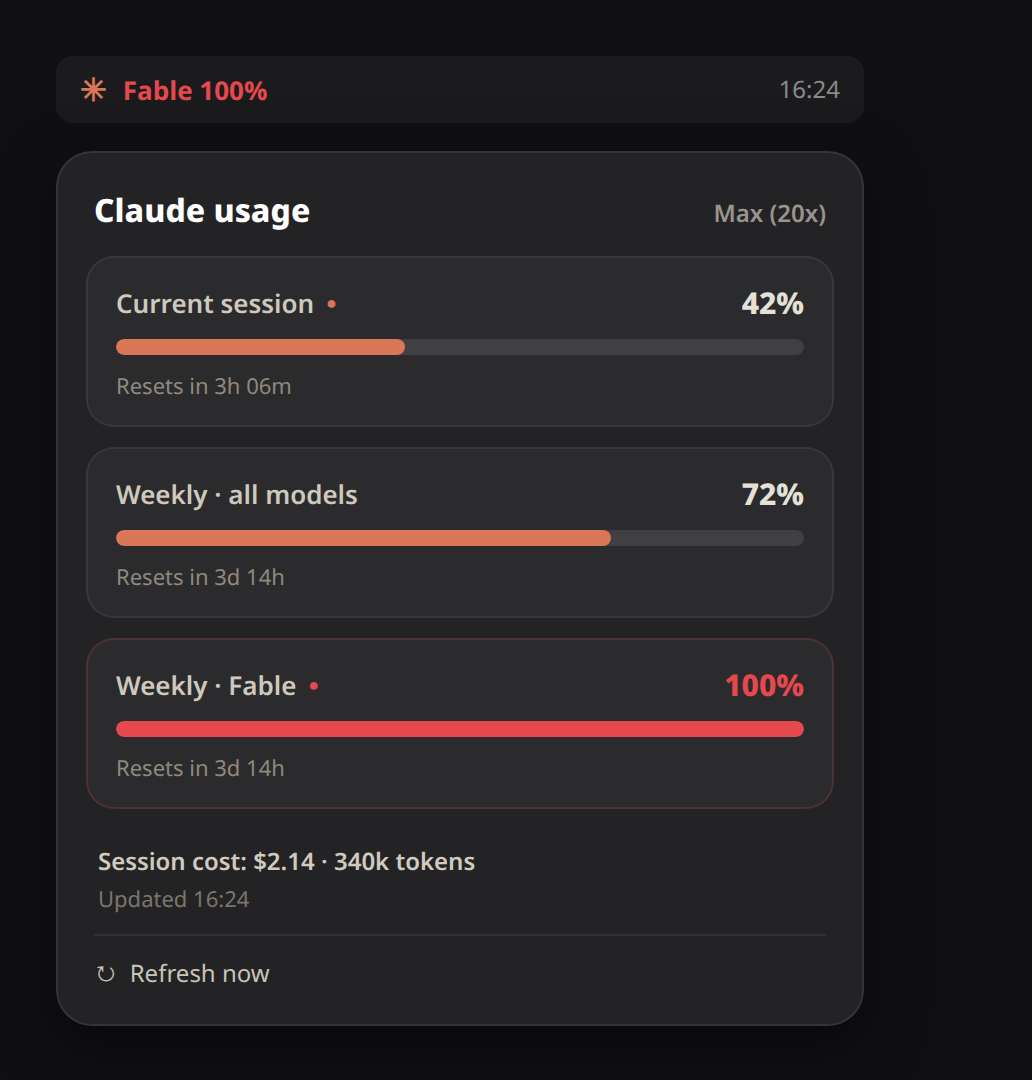
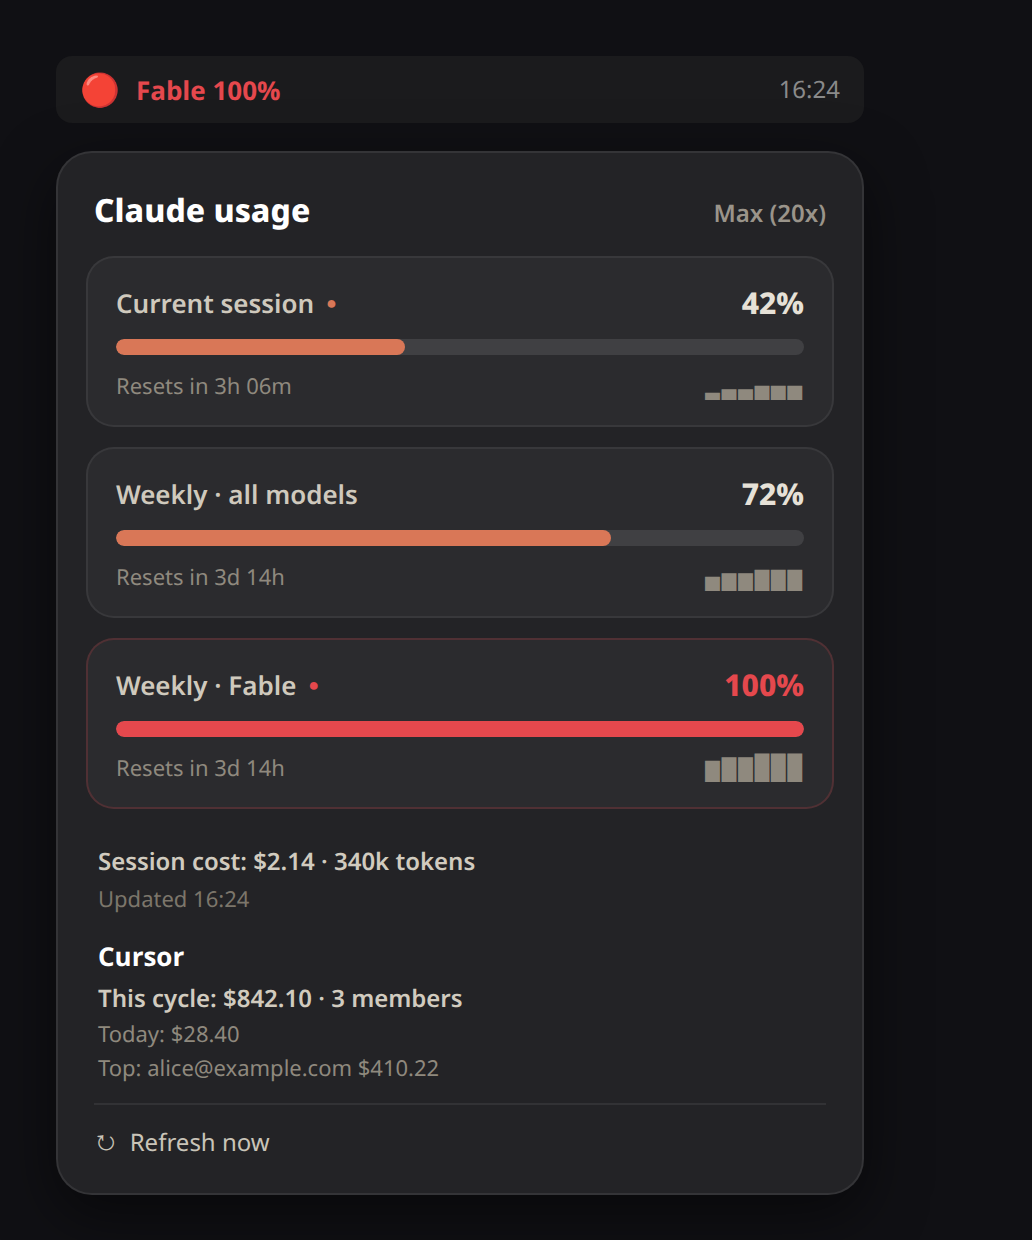
docs: SOTA README rewrite + settings screenshot
- Centered hero, badges, TOC, feature grid, dual screenshots (dropdown +
  settings), how-it-works, roadmap, repo tree.
- Refresh dropdown mockup to show sparklines and the Cursor section.
- Add docs/settings.png (libadwaita preferences).

diff --git a/README.md b/README.md
@@ -1,39 +1,66 @@
+<div align="center">
+
 # Claude Usage Panel
 
-**See your Claude Code plan usage at a glance — in the GNOME top bar (Linux) or the macOS menu bar.**
+**See your Claude Code plan usage at a glance — in the GNOME top bar or the macOS menu bar.**
 
-Session, weekly, and **per-model** limits (like **Fable** and **Opus**) — the same numbers as `/usage`, always visible, auto-refreshing.
+Session, weekly, and **per-model** limits (Fable, Opus…) — the same numbers as `/usage`, always visible, auto-refreshing. Plus an optional **Cursor** team-spend section.
 
 ![GNOME Shell 45–50](https://img.shields.io/badge/GNOME%20Shell-45--50-4A86CF?logo=gnome&logoColor=white)
 ![macOS 13+](https://img.shields.io/badge/macOS-13%2B-000000?logo=apple&logoColor=white)
 ![Swift 6.1](https://img.shields.io/badge/Swift-6.1-F05138?logo=swift&logoColor=white)
 ![License: MIT](https://img.shields.io/badge/license-MIT-3DA639)
-![Read-only](https://img.shields.io/badge/credentials-read--only-2ea44f)
 ![pre-commit](https://img.shields.io/badge/pre--commit-enabled-FAB040?logo=pre-commit&logoColor=white)
+![Read-only](https://img.shields.io/badge/credentials-read--only-2ea44f)
 
-<img src="docs/screenshot.png" alt="Claude Usage Panel dropdown showing session, weekly, and per-model Fable limits" width="420">
+<img src="docs/screenshot.png" alt="Claude Usage Panel dropdown: session, weekly, and per-model Fable limits with sparklines and an optional Cursor section" width="380">
 
-> **Linux + macOS.** GNOME Shell extension in the repo root; a native SwiftUI menu-bar app in [`macos/`](macos/) — same data layer, same designed dropdown.
+</div>
+
+---
+
+## Contents
+
+- [Why this one](#why-this-one)
+- [Features](#features)
+- [Screenshots](#screenshots)
+- [Install — GNOME (Linux)](#install--gnome-linux)
+- [Install — macOS](#install--macos)
+- [Settings](#settings)
+- [How it works](#how-it-works)
+- [Cursor (optional)](#cursor-optional)
+- [Privacy](#privacy)
+- [Development](#development)
+- [Roadmap](#roadmap)
+- [License](#license)
 
 ## Why this one
 
 Most Claude usage indicators read the endpoint's legacy `five_hour` / `seven_day`
 fields and show only the aggregate session + weekly pair. This one reads the
 modern **`limits[]` array**, so it shows **every** limit the Claude app shows —
-including **per-model weekly limits** (Fable, Opus, …) that the others miss.
+including **per-model weekly limits** (Fable, Opus…) that the others miss — on
+**both Linux and macOS**, with native UI on each (no Electron).
 
 ## Features
 
-- **All plan limits** in one designed dropdown: current session, weekly (all models), and per-model weekly limits (Fable, Opus, …).
-- **Severity colors** — normal / warning / **critical**, straight from the API's `severity` field, reflected in the top-bar glyph too.
-- **Limit-crossing alerts** — a desktop notification when any limit first hits 90% or 100%.
-- **Usage sparkline** — a tiny history graph per limit so you see the trend.
-- **Reset timers** — `Resets in 3h 06m`, `Resets in 4d 2h`.
-- **Compact top-bar readout** — the worst limit (or the current session), e.g. `Fable 100%`.
-- **Optional session cost** — computed locally via [`ccusage`](https://github.com/ryoppippi/ccusage) (the official API exposes no dollar cost on subscription plans).
-- **Configurable refresh** — defaults to every 10 minutes.
-- **Read-only & private** — uses your existing `~/.claude/.credentials.json` token, never writes it, and talks only to `api.anthropic.com`.
-- **Quit** from the menu — unloads it and keeps it off until you re-enable.
+| | |
+|---|---|
+| 📊 **All plan limits** | Session, weekly (all models), and per-model (Fable, Opus…) — one card each |
+| 🎨 **Severity colors** | normal / warning / **critical**, straight from the API — reflected in the top-bar glyph too |
+| 🔔 **Limit-crossing alerts** | Desktop notification when any limit first hits 90% or 100% |
+| 📈 **Usage sparkline** | A tiny history graph per limit so you see the trend |
+| ⏳ **Reset timers** | `Resets in 3h 06m`, `Resets in 4d 2h` |
+| 💲 **Optional session cost** | Computed locally via [`ccusage`](https://github.com/ryoppippi/ccusage) |
+| 🟣 **Optional Cursor spend** | Team cycle spend / today / top spender via the Cursor Admin API |
+| 🔒 **Read-only & private** | Uses your existing local token, never writes it, talks only to `api.anthropic.com` |
+| 🖥 **Cross-platform** | Native GNOME Shell extension **and** native SwiftUI menu-bar app |
+
+## Screenshots
+
+| Dropdown | Settings |
+|---|---|
+| <img src="docs/screenshot.png" alt="Dropdown" width="360"> | <img src="docs/settings.png" alt="Settings" width="360"> |
 
 ## Install — GNOME (Linux)
 
@@ -45,15 +72,6 @@ cd claude-usage-panel
 ./install.sh
 ```
 
-Or from a packaged release:
-
-```bash
-# download the .shell-extension.zip from the Releases page, then:
-gnome-extensions install --force claude-usage-panel@fschmutz.github.io.shell-extension.zip
-```
-
-(An extensions.gnome.org listing is planned — see [PUBLISHING.md](PUBLISHING.md).)
-
 `install.sh` copies the extension, compiles its schema, clears the global
 `disable-user-extensions` switch if set, and enables it to auto-start on every
 login. Then **log out and back in** (Wayland loads new extensions only at login)
@@ -63,6 +81,15 @@ and confirm:
 gnome-extensions info claude-usage-panel@fschmutz.github.io   # State: ACTIVE
 ```
 
+Or from a packaged release:
+
+```bash
+# download the .shell-extension.zip from the Releases page, then:
+gnome-extensions install --force claude-usage-panel@fschmutz.github.io.shell-extension.zip
+```
+
+> An extensions.gnome.org listing is planned — see [PUBLISHING.md](PUBLISHING.md).
+
 ## Install — macOS
 
 ```bash
@@ -70,19 +97,35 @@ cd macos
 swift run          # icon appears in the menu bar
 ```
 
-Full details, release build, and login-item setup in [macos/README.md](macos/README.md).
+`macos/build-app.sh` produces a distributable `ClaudeUsagePanel.app` (menu-bar
+agent, no Dock icon). Full details, release build, notarization, and a Homebrew
+cask template are in [macos/README.md](macos/README.md) and [PUBLISHING.md](PUBLISHING.md).
 
-## Requirements
+### Requirements
 
 - **Linux:** GNOME Shell 45–50
 - **macOS:** 13 Ventura or later (Xcode 15+ / Swift toolchain)
-- An active Claude Code login (`~/.claude/.credentials.json` present)
+- An active Claude Code login (see [How it works](#how-it-works) for where the token lives)
 - Optional, for cost: Node.js / `npx`, or a global `ccusage`
+
+## Settings
+
+<img src="docs/settings.png" alt="Preferences window" width="420">
+
+- **Refresh interval** — minutes between polls (default 10).
+- **Top bar shows** — worst limit or current session.
+- **Limit-crossing alerts** — notify at 90% / 100%.
+- **Show session cost** — enable local `ccusage` cost.
+- **Cursor (optional)** — toggle + Admin API key.
+
+GNOME: open via the dropdown's **Settings**, or
+`gnome-extensions prefs claude-usage-panel@fschmutz.github.io`.
+macOS: toggles live directly in the dropdown.
 
 ## How it works
 
-Reads the OAuth access token Claude Code already stores in
-`~/.claude/.credentials.json` and calls the official usage endpoint:
+The panel reads the OAuth access token that Claude Code already stores locally
+and calls the official usage endpoint:
 
 ```text
 GET https://api.anthropic.com/api/oauth/usage
@@ -92,29 +135,33 @@ GET https://api.anthropic.com/api/oauth/usage
 
 The response contains a `limits[]` array — one entry per active limit, each with
 a `percent`, a `severity`, a `resets_at`, and an optional model `scope`. The
-panel renders one card per limit. If the token expires, it prompts you to run
-any Claude Code command (which refreshes it) — it never touches the file.
+panel renders one card per limit.
 
-## Settings
+**Where the token lives:** `~/.claude/.credentials.json` on Linux; the **login
+Keychain** on macOS (the app reads it via `security find-generic-password`). If
+the token expires, the panel prompts you to run any Claude Code command (which
+refreshes it) — it never writes the token itself.
 
-- **Refresh interval** — minutes between polls (default 10).
-- **Top bar shows** — worst limit or current session.
-- **Show session cost** — enable local `ccusage` cost computation.
+## Cursor (optional)
 
-GNOME: open via the dropdown's **Settings**, or
-`gnome-extensions prefs claude-usage-panel@fschmutz.github.io`.
-macOS: toggles live directly in the dropdown.
+Enable **Show Cursor usage** and paste a Cursor **Admin API key** (create one at
+cursor.com → your team → Settings → Admin API). The panel calls
+`api.cursor.com` (`/teams/spend`, `/teams/filtered-usage-events`) and shows the
+billing-cycle spend, today's spend, and the top spender. Cursor is usage-based,
+so it shows spend rather than a percentage gauge. Off by default; the key is
+stored locally in dconf.
 
 ## Privacy
 
 Read-only with respect to your credentials. One outbound request per refresh, to
 Anthropic's official API, with your own token. No telemetry, no third parties.
-When cost is enabled it additionally runs `ccusage` locally against your
-`~/.claude/projects/*.jsonl` logs.
+Cost (when enabled) runs `ccusage` locally against `~/.claude/projects/*.jsonl`.
+Cursor (when enabled) calls `api.cursor.com` with your own admin key.
 
 ## Development
 
-Quality is enforced by [pre-commit](https://pre-commit.com):
+Quality is enforced by [pre-commit](https://pre-commit.com) and the same set
+runs in CI on every push:
 
 ```bash
 pipx install pre-commit
@@ -124,7 +171,22 @@ pre-commit run --all-files
 
 Hooks: ESLint (GJS), `swift-format` (Swift), shellcheck + shfmt (shell),
 markdownlint (docs), gitleaks (secret scan), plus JSON/XML/whitespace checks.
-CI runs the same set on every push (see `.github/workflows/pre-commit.yml`).
+
+```text
+.
+├── claude-usage-panel@fschmutz.github.io/   # GNOME Shell extension
+│   ├── extension.js         # panel button, dropdown, alerts, sparkline
+│   ├── prefs.js             # libadwaita preferences
+│   └── lib/                 # claudeUsage.js · cost.js · cursorUsage.js
+└── macos/                   # native SwiftUI MenuBarExtra app (SwiftPM)
+    └── Sources/ClaudeUsagePanel/
+```
+
+## Roadmap
+
+- [ ] extensions.gnome.org listing
+- [ ] Notarized macOS `.app` + Homebrew cask
+- [ ] Per-model `%` gauge for Cursor once a monthly limit is set
 
 ## License
 
@@ -132,4 +194,8 @@ MIT — see [LICENSE](LICENSE).
 
 ---
 
-<sub>Keywords: Claude Code usage monitor, Claude usage GNOME Shell extension, Claude plan limits top bar, macOS menu bar Claude usage, Anthropic usage API, ccusage, Fable / Opus per-model weekly limit, session and weekly usage, Ubuntu GNOME extension, SwiftUI MenuBarExtra.</sub>
+<div align="center"><sub>
+
+Keywords: Claude Code usage monitor · Claude usage GNOME Shell extension · Claude plan limits top bar · macOS menu bar Claude usage · Anthropic usage API · ccusage · Fable / Opus per-model weekly limit · Cursor Admin API spend · Ubuntu GNOME extension · SwiftUI MenuBarExtra
+
+</sub></div>
